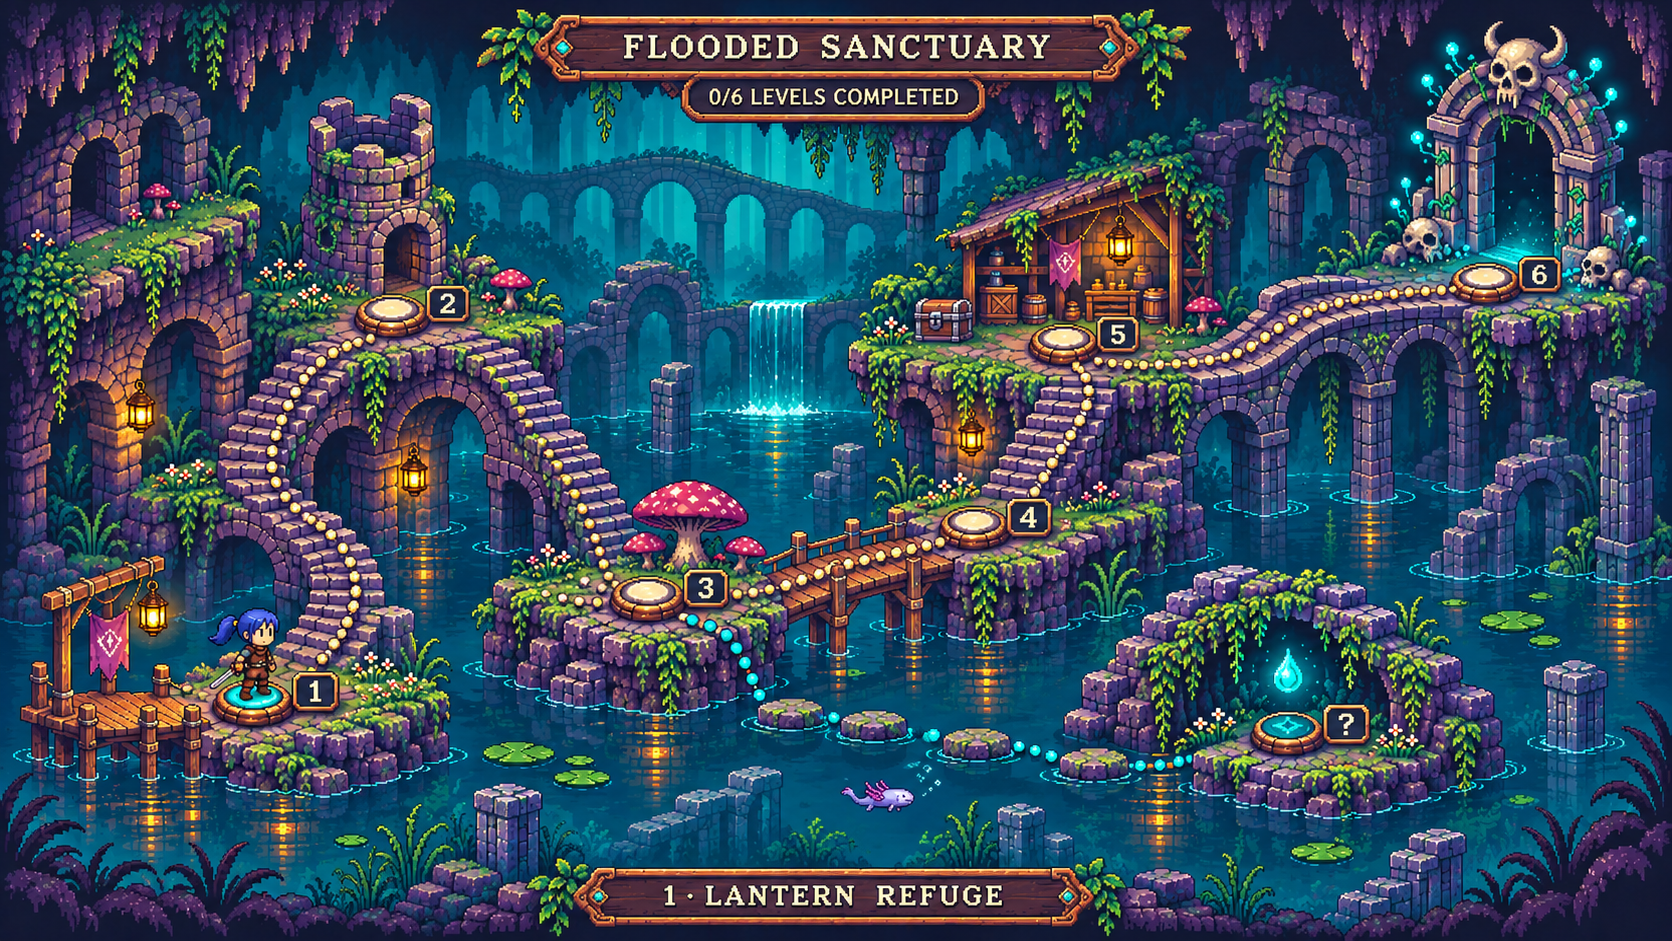
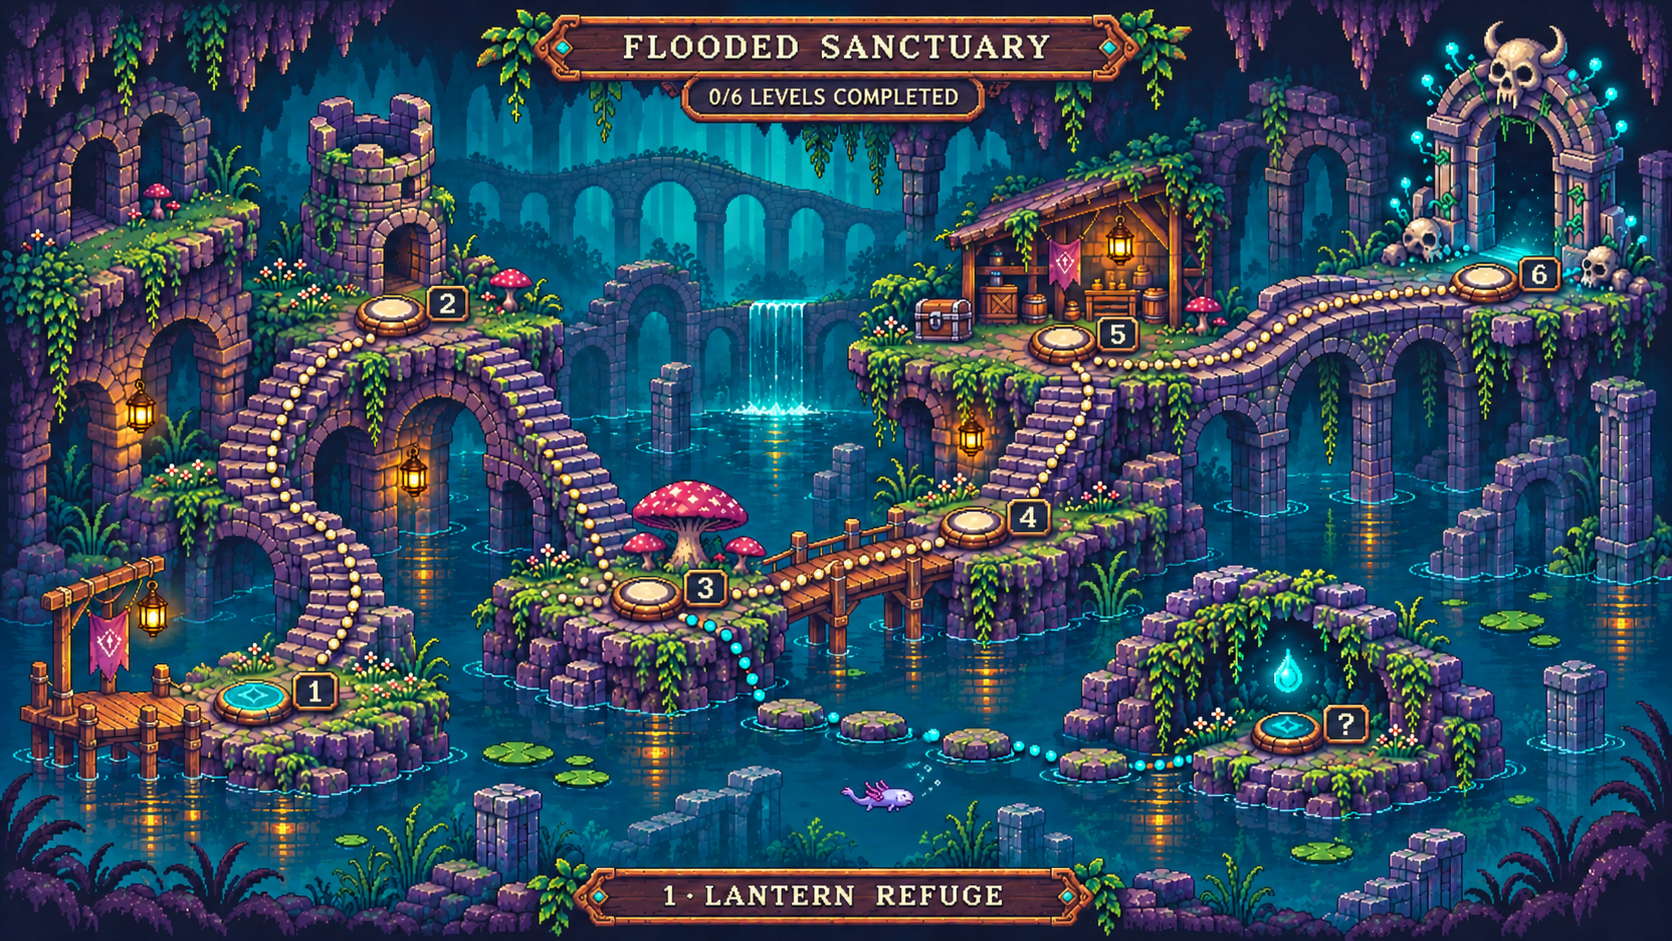
The region map without the painted Kleo
The creative lead's second version: only the game's Kleo stands on it now.

Claude-Session: https://claude.ai/code/session_01MbTDeRLoeBWBKuDWosiWk5

diff --git a/CLAUDE.md b/CLAUDE.md
@@ -370,11 +370,11 @@ All are tried in the **systems arena** (`scenes/levels/systems_arena.tscn`,
   A stop opens when the one it follows is done (`after` in `Game.LEVELS`,
   else the one before). The plate under the title counts the stops cleared;
   the bottom plate names her stop; over it is that level's record: letters,
-  tokens, knot, found or missing. **The painting has a Kleo at pad 1 and two
-  texts painted in** ("0/6 levels completed", "1 · Lantern Refuge"): the two
-  plates are covered and rewritten in the script, but the painted Kleo
-  can't be, so there are two Kleos when she stands anywhere else. A clean
-  plate from the creative lead (no Kleo, empty plates) fixes it. `Game.keeper()`
+  tokens, knot, found or missing. **The painting has two texts painted in**
+  ("0/6 levels completed", "1 · Lantern Refuge"): the script covers those
+  two plates and rewrites them. (Its first version also had a Kleo painted
+  at pad 1; the creative lead sent a second without her, which is the one
+  in use.) `Game.keeper()`
   names the flags that are saved (`user://save.json`): each level's done
   mark, letters, tokens and knot, plus the Resin. Everything else a level
   remembers is wiped by `Game.enter_level`. Esc leaves a level for the map.
@@ -665,8 +665,7 @@ xvfb-run -a godot --path . --fixed-fps 60 --audio-driver Dummy res://tests/playt
   (SF9's leaves and trunks keep their greens); a level lowers the sky to
   y -50 so the moons sit whole; the full-level map leaves out the parallax
   layers, so judge the look in `mode=shots`.
-- **The region map, awaiting the creative lead's word:** a clean plate
-  without the painted Kleo; the region's name (the map says "Flooded
+- **The region map, awaiting the creative lead's word:** the region's name (the map says "Flooded
   Sanctuary", the design docs "The Ironbark Wilds") and level 1's (the map
   says "Lantern Refuge", the docs "The Overgrown Ruins"): the game shows the
   docs' level names for now; the map's dusk look against region 1's
